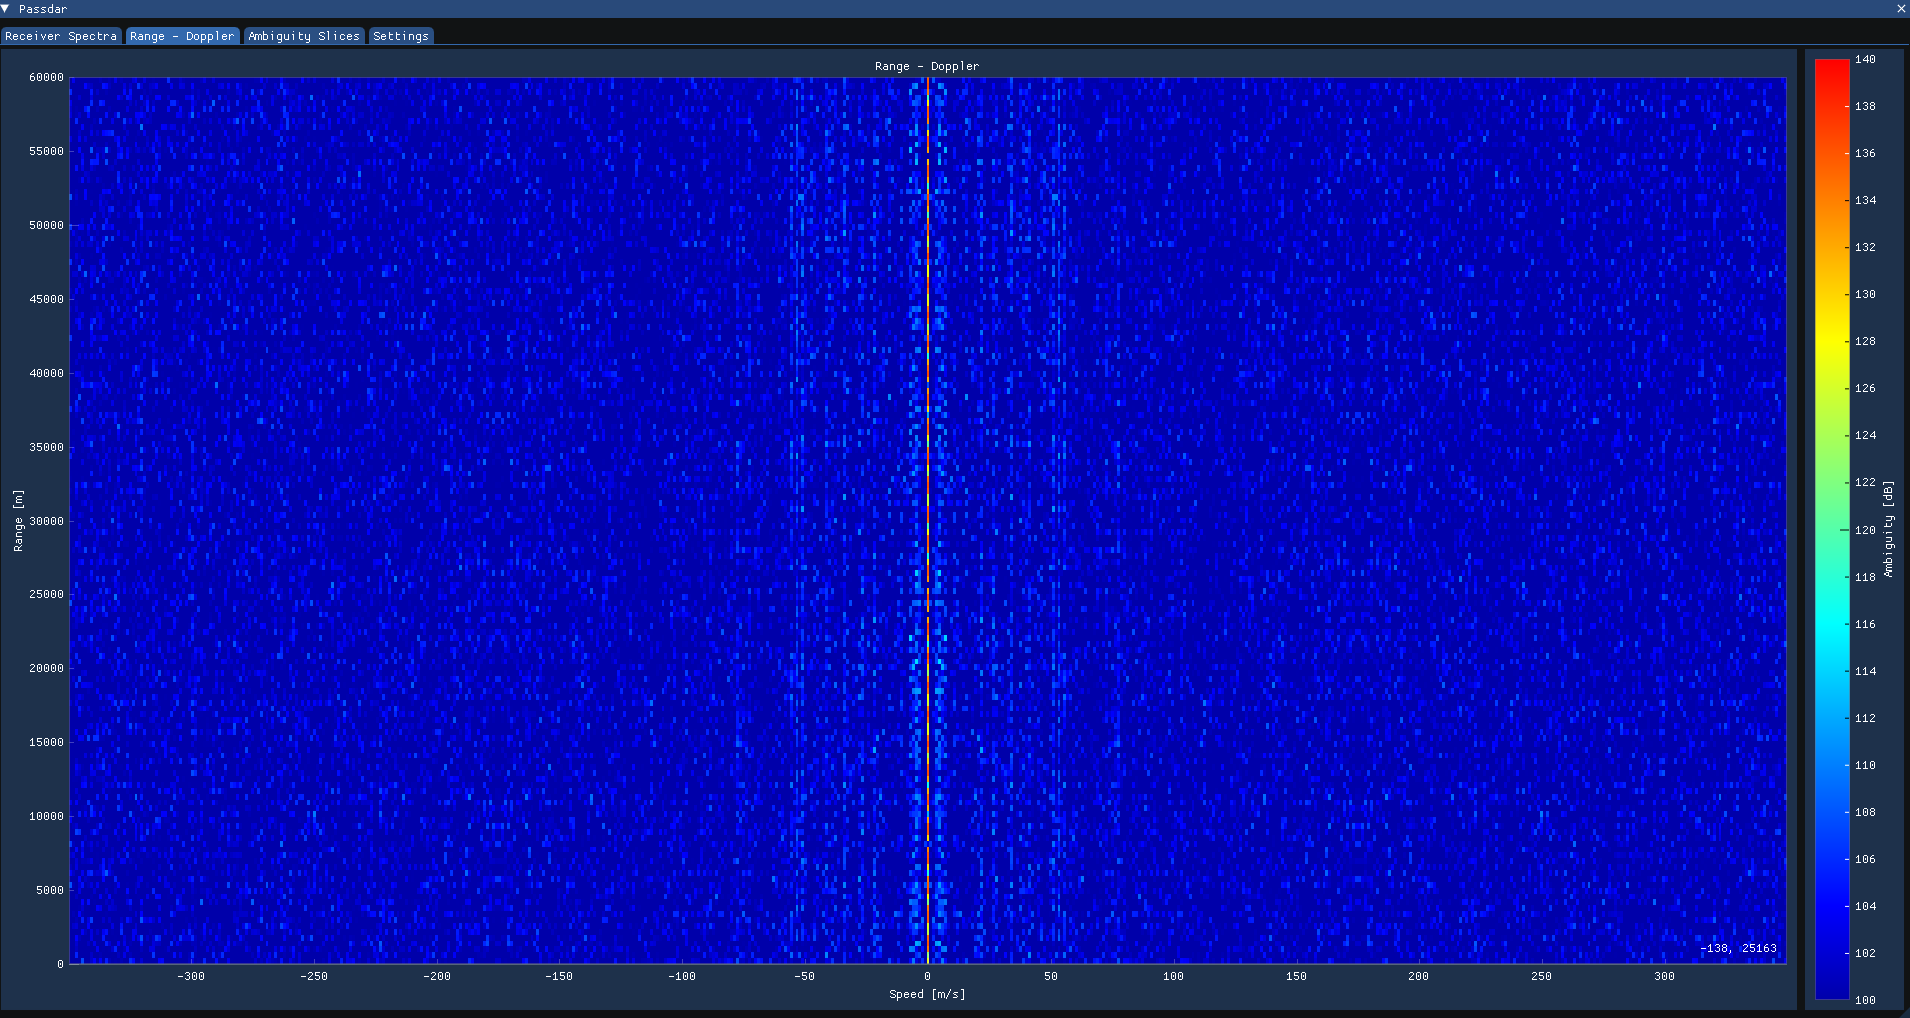
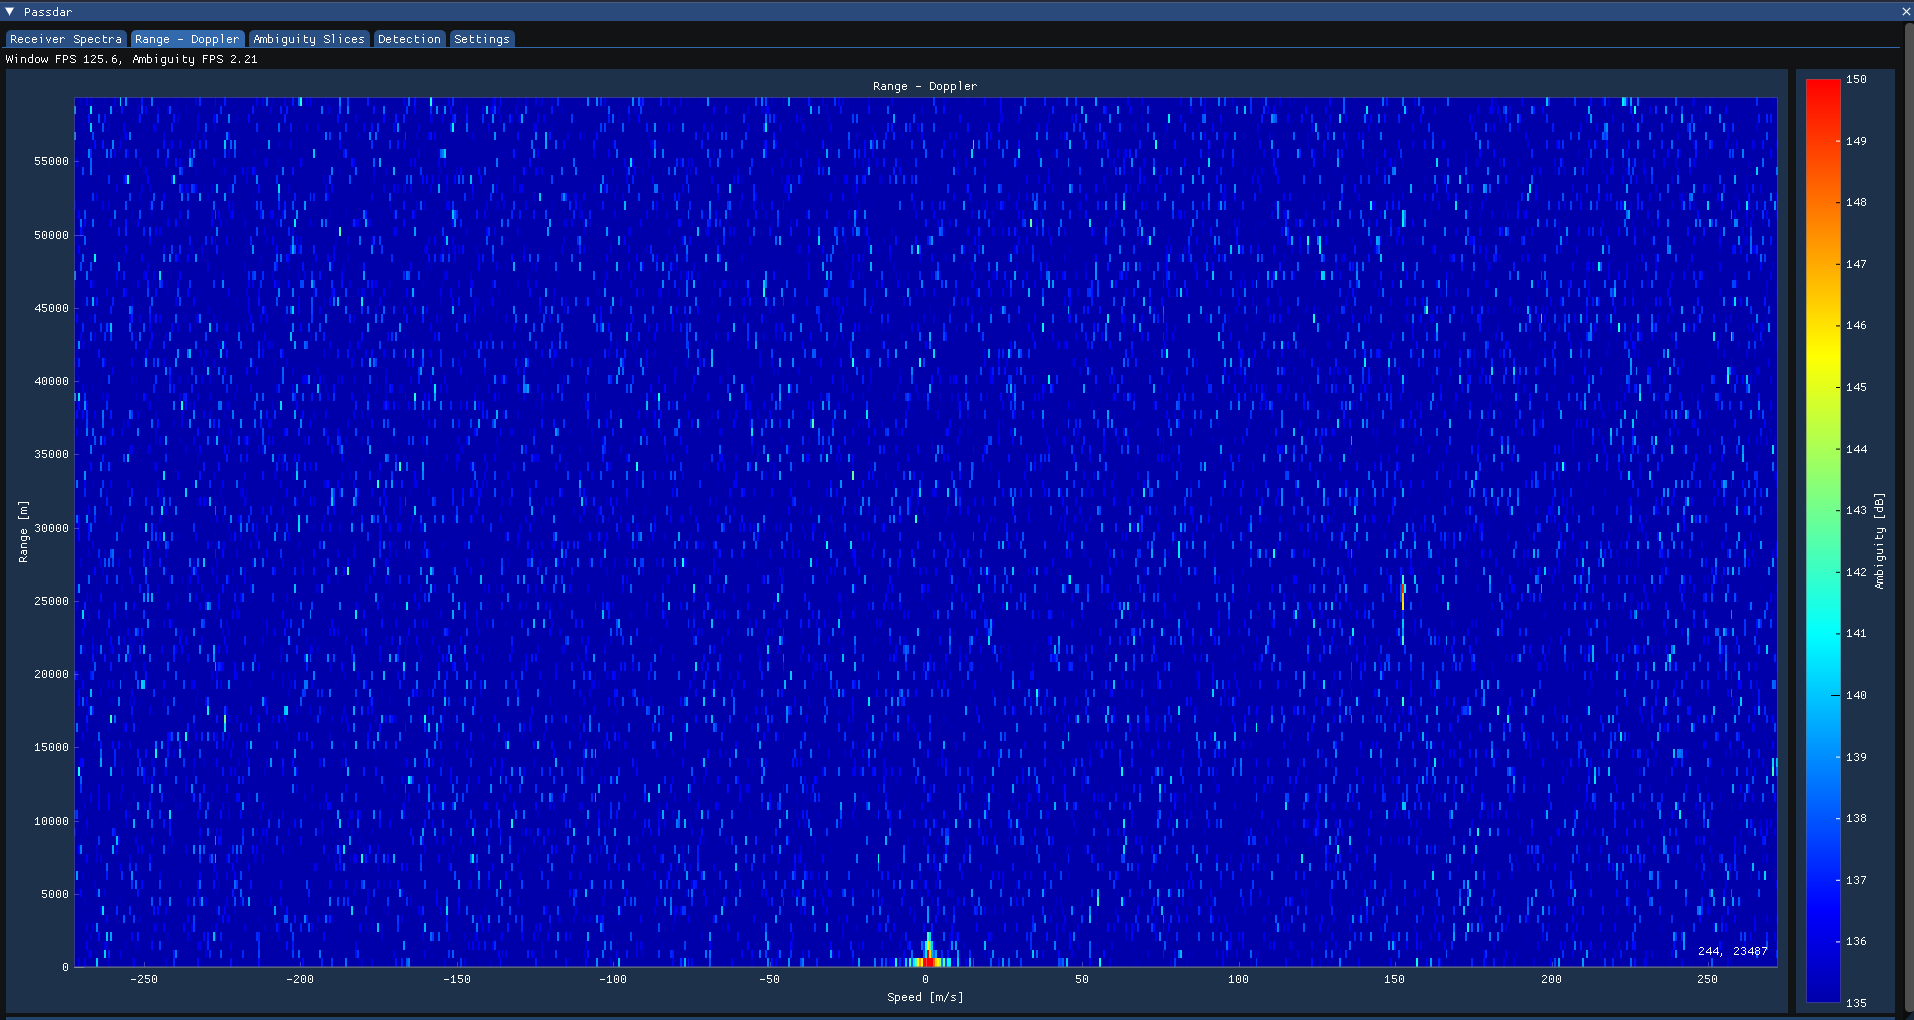
Doc updates

diff --git a/src/frontend/radarApp.cpp b/src/frontend/radarApp.cpp
@@ -312,7 +312,6 @@ void RadarApp::ambiguity_slice_frame_update(void) {
   int half_width =
       ImGui::GetContentRegionAvail().x / 2 - ImGui::GetStyle().ItemSpacing.x;
 
-  // FIXME: Wrong way around
   // Assign speed values at range point
   for (int i = 0; i < radar_data->ambiguity_columns; i++) {
     range_slice[i] = radar_data->ambiguity.read(

diff --git a/README.md b/README.md
@@ -12,20 +12,20 @@ live ambiguity between the incoming signals.
 
 ## Build & Run
 
-To clone and build the project while cloning external repositories recursively.
+To clone and build the project for a linux machine.
 
 ```bash
 git clone https://github.com/mv-2/passdar.git
 cd passdar
 vcpkg install
 cmake --preset default
-cmake --build --preset default
+cmake --build --preset default-linux
 ```
 
 Run by pointing to config file.
 
 ```bash
-./build/default/passdar cfg/cfg.json
+./build/default-linux/passdar cfg/cfg.json
 ```
 
 On first startup, expect that the window will take a while to show. `FFTW`
